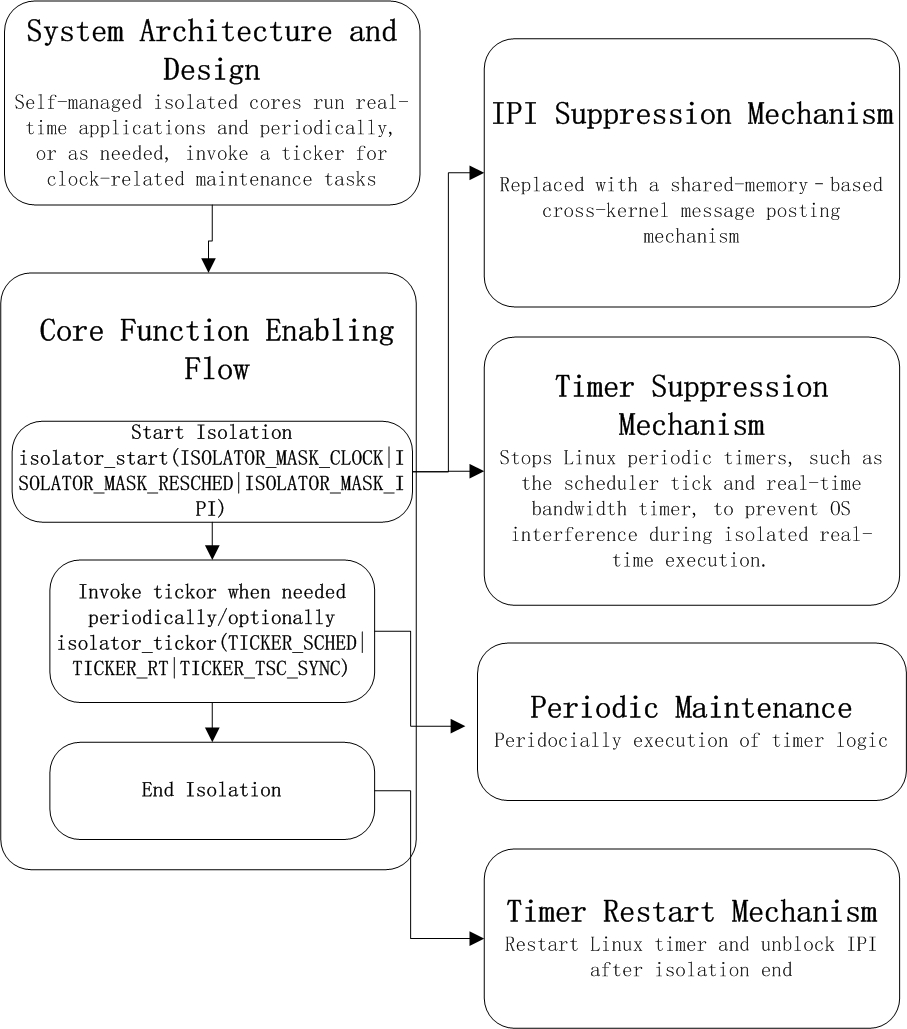
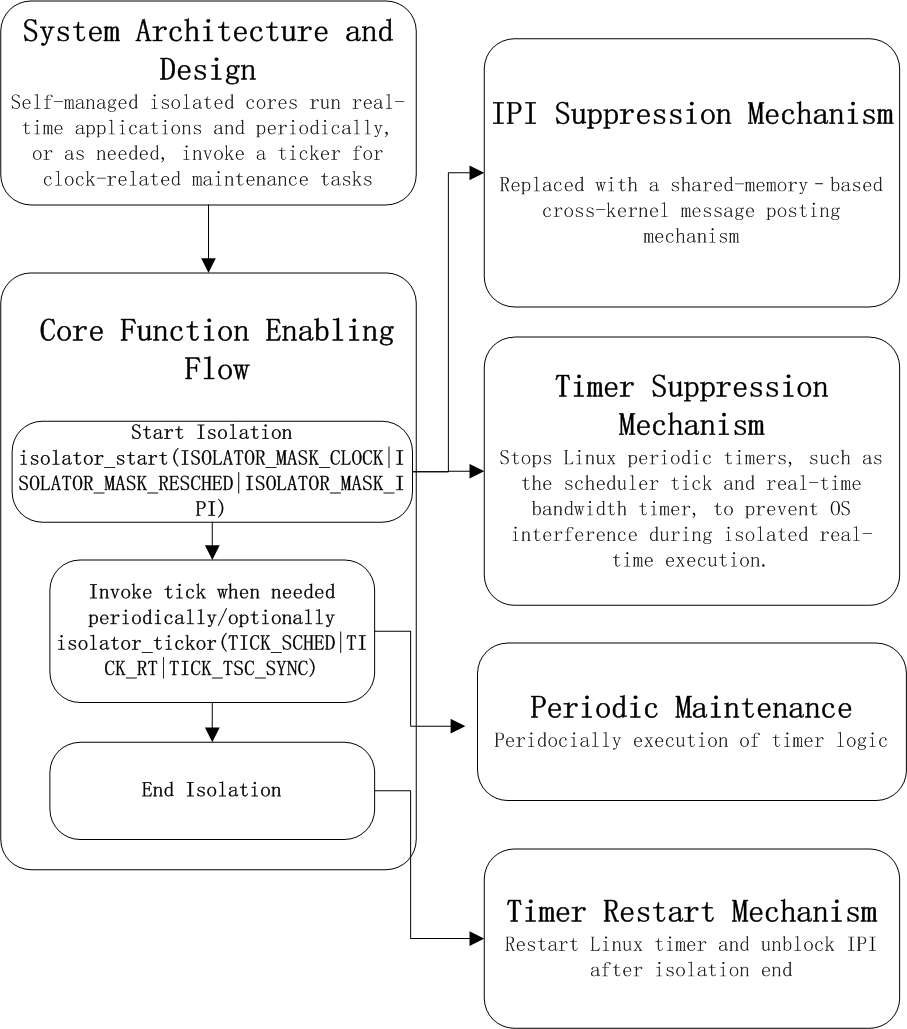
modify page 2

diff --git a/main.tex b/main.tex
@@ -132,10 +132,11 @@ designed to achieve deterministic sub-microsecond response times.
 Our mechanism introduces two key innovations:
 
 \begin{itemize}
-    \item \textbf{Centralized Timer Handling:} Tick-related timer interrupt processing is completely disabled on selected cores. 
-    All tick-related activities previously executed on the isolated core are selectively invoked via a dedicated API,
-    which periodically executes the timer functionalities required for global correctness. 
-    This ensures that isolated cores run without local timer interruptions.
+\item \textbf{Centralized Timer Handling:} Centralized Timer Handling. We centralize tick work that previously executed on the isolated core
+  and expose it through a dedicated polling API. This API is not automatic; the real-time user code must call it periodically
+  (or at application-chosen safe points). If the tick work is completely disabled—so that functions such as \texttt{account\_process\_tick} are
+  never invoked—these routines simply do not execute. While this does not compromise system stability, it suppresses time accounting and related statistics.
+  Users who require these updates can invoke the API on demand to run the deferred tick work.
     
     \item \textbf{Shared-Memory IPI Management:} Non-essential inter-processor interrupts (IPIs) to isolated cores 
     are suppressed. Coordination that would normally trigger IPIs is instead implemented via shared memory, 
@@ -157,7 +158,7 @@ of high-precision tasks free from interference by timer events or other system o
 \section{Related Work}\label{BG}
 \subsection{Timer Interrupt Control in the Linux Kernel}
 
-The concept of timer tickers in operating systems predates the development of the Linux kernel \cite{Corbet}. 
+The concept of timer ticks in operating systems predates the development of the Linux kernel \cite{Corbet}. 
 In Linux, periodic timer interrupts, commonly referred to as \emph{ticks}, are scheduled on each CPU core 
 to support timekeeping, process accounting, and scheduler activation. These interrupts typically occur at 
 frequencies between 250 Hz and 1 kHz and may preempt running tasks to perform kernel maintenance.  
@@ -228,9 +229,9 @@ The system architecture is designed to provide a robust, low-latency environment
 The design, illustrated in Figure~\ref{fig:isolator_flow}, is built around three core mechanisms:
 
 \begin{enumerate}
-    \item \textbf{Isolation Enabling:} The process begins by invoking \texttt{isolator\_start()} with a specified mask (e.g., \texttt{ISOLATOR\_MASK\_CLOCK}, \texttt{ISOLATOR\_MASK\_RESCHED}, \texttt{ISOLATOR\_MASK\_IPI}). This function initiates the isolation state on a core, effectively severing its interaction with standard OS interrupt mechanisms. Crucially, this involves suppressing Inter-Processor Interrupts (IPIs) by replacing them with a deterministic, shared-memory-based message-passing system for cross-kernel communication. It also halts Linux's periodic timers, such as the scheduler tick and real-time bandwidth timer.
+    \item \textbf{Isolation Enabling:} The process begins by invoking \texttt{isolator\_start} with a specified mask (e.g., \texttt{ISOLATOR\_MASK\_CLOCK}, \texttt{ISOLATOR\_MASK\_RESCHED}, \texttt{ISOLATOR\_MASK\_IPI}). This function initiates the isolation state on a core, effectively severing its interaction with standard OS interrupt mechanisms. Crucially, this involves suppressing Inter-Processor Interrupts (IPIs) by replacing them with a deterministic, shared-memory-based message-passing system for cross-kernel communication. It also halts Linux's periodic timers, such as the scheduler tick and real-time bandwidth timer.
 
-    \item \textbf{Periodic Maintenance via a Ticker:} While isolated, the core executes its real-time workload without interruption. However, to maintain system health and coherence, certain clock-related functions must still be performed periodically or on-demand. This is handled by the \texttt{isolator\_ticker()} function, which is invoked by the application itself. This function acts as a managed tick, allowing the isolated core to voluntarily execute maintenance tasks---such as scheduling decisions (\texttt{TICKER\_SCHED}), real-time task management (\texttt{TICKER\_RT}), and time synchronization (\texttt{TICKER\_TSC\_SYNC})---at a time of its choosing, thus preserving determinism.
+    \item \textbf{Periodic Maintenance via a Tick:} While isolated, the core executes its real-time workload without interruption. However, to maintain system health and coherence, certain clock-related functions must still be performed periodically or on-demand. This is handled by the \texttt{isolator\_tick} function, which is invoked by the application itself. This function acts as a managed tick, allowing the isolated core to voluntarily execute maintenance tasks---such as scheduling decisions (\texttt{TICK\_SCHED}), real-time task management (\texttt{TICK\_RT}), and time synchronization (\texttt{TICK\_TSC\_SYNC})---at a time of its choosing, thus preserving determinism.
 
     \item \textbf{Isolation Teardown:} Upon completion of the real-time task, the isolation state is ended. This final stage gracefully reintegrates the core back into the broader OS environment. The mechanism restarts the standard Linux periodic timers and re-enables the full IPI handling, ensuring the core returns to normal operation without any residual state from the isolation period.
 \end{enumerate}
@@ -251,7 +252,7 @@ In summary, the design replaces the traditional preemptive, interrupt-driven OS 
 The kernel was modified to explicitly recognize the isolation state of a core.
 When a core is set to isolation mode, its local tick logic, normally executed in
 \texttt{update\_process\_times} and \texttt{scheduler\_tick},
-is completely bypassed unless explicitly triggered through the \texttt{isolator\_ticker} function.
+is completely bypassed unless explicitly triggered through the \texttt{isolator\_tick} function.
 In addition, all asynchronous inter-processor interrupts (IPIs) that might interfere with the
 isolated core are suppressed. The key mechanisms implemented for timer bypass and interrupt suppression are described below.
 
@@ -268,7 +269,7 @@ the unpredictability of standard IPIs. Specific handling includes:
 \begin{itemize}
     \item \textbf{RCU (Read-Copy Update):} Upon entering isolation, the RCU subsystem is notified that the core is isolated and must be excluded from grace period calculations. 
     \item \textbf{TLB Shootdowns:} IPIs requesting Translation Lookaside Buffer flushes are suppressed and queued in shared memory.
-      The isolated core processes these flush requests the next time it invokes \texttt{isolator\_ticker}.
+      The isolated core processes these flush requests the next time it invokes \texttt{isolator\_tick}.
     \item \textbf{CPU Frequency Scaling:} IPIs induced by CPU frequency changes are disabled to avoid unwanted interruptions.
 \end{itemize}
 
@@ -276,7 +277,7 @@ the unpredictability of standard IPIs. Specific handling includes:
 Even after stopping periodic timers, the isolated core maintains a consistent notion of system time through \texttt{isolator\_get\_monotonic\_time}, which provides a linearized timestamp in microseconds. The \texttt{isolator\_poll\_until} function allows predictable wake-ups for polling operations without relying on standard kernel timers.
 
 \paragraph{Periodic Maintenance}  
-Deferred timer tasks and queued IPI processing are executed only when the isolated core voluntarily calls \texttt{isolator\_ticker}. This ensures deterministic behavior while still allowing the core to perform necessary maintenance tasks at controlled intervals.
+Deferred timer tasks and queued IPI processing are executed only when the isolated core voluntarily calls \texttt{isolator\_tick}. This ensures deterministic behavior while still allowing the core to perform necessary maintenance tasks at controlled intervals.
 
 \paragraph{Restoration Mechanism}  
 When isolation ends, previously canceled Linux timers and real-time bandwidth timers are restarted, and normal IPI handling is restored. The core then returns to standard operation, with all periodic activities and inter-core notifications resumed.
@@ -316,7 +317,7 @@ DEFINE_PER_CPU(atomic_t,
 \end{lstlisting}
 Each entry in this array acts as a flag indicating whether the corresponding CPU is currently under
 isolation. This flag is incremented by user-space applications via a custom system call or API
-(isolator\_start()) and is read by kernel components to selectively disable or defer their operations.
+(isolator\_start) and is read by kernel components to selectively disable or defer their operations.
 
 
 \subsection{RCU Grace Period Handling}
@@ -383,22 +384,22 @@ source of nondeterministic interruptions.
 
 To address this, we introduced a per-CPU flag (\texttt{ucas\_counter}) that 
 controls whether tick-related hrtimers should be restarted or suppressed. When 
-this counter is non-zero, functions such as \texttt{tick\_nohz\_restart()}, 
-\texttt{tick\_nohz\_idle\_restart\_tick()}, \texttt{tick\_nohz\_handler()}, 
-and \texttt{tick\_sched\_timer()} are modified to immediately return without 
+this counter is non-zero, functions such as \texttt{tick\_nohz\_restart}, 
+\texttt{tick\_nohz\_idle\_restart\_tick}, \texttt{tick\_nohz\_handler}, 
+and \texttt{tick\_sched\_timer} are modified to immediately return without 
 restarting the periodic scheduler timer. This effectively disables the 
 recurring tick on isolated CPUs, preventing spurious wakeups and involuntary 
 kernel execution.
 
 In order to preserve correctness, we provide helper routines that allow the 
 isolator subsystem to explicitly handle deferred tick events when needed. For 
-example, the function \texttt{ucas\_handle\_tick\_sched\_timer()} invokes 
-\texttt{tick\_sched\_do\_timer()} and \texttt{update\_process\_times()} 
+example, the function \texttt{ucas\_handle\_tick\_sched\_timer} invokes 
+\texttt{tick\_sched\_do\_timer} and \texttt{update\_process\_times} 
 manually, ensuring that accounting and timekeeping can still progress under 
 controlled conditions.
 
-We also provide utility functions such as ucas\_stop\_sched\_timer() to stop
-the tick-related hrtimers immediately Figure~\ref{fig:stopticker}.
+We also provide utility functions such as ucas\_stop\_sched\_timer to stop
+the tick-related hrtimers immediately Figure~\ref{fig:stoptick}.
 \begin{figure}[h]
 \centering
 \begin{tikzpicture}[node distance=1.5cm, auto]
@@ -408,7 +409,7 @@ the tick-related hrtimers immediately Figure~\ref{fig:stopticker}.
   \tikzstyle{arrow} = [->, thick]
 
   % Nodes
-  \node[block] (start) {\texttt{ucas\_stop\_sched\_timer()}};
+  \node[block] (start) {\texttt{ucas\_stop\_sched\_timer}};
   \node[block, below of=start] (get) {Obtain current CPU’s \\ scheduler timer};
   \node[block, below of=get] (cancel) {Cancel the timer};
   \node[block, below of=cancel] (end) {Finish};
@@ -419,7 +420,7 @@ the tick-related hrtimers immediately Figure~\ref{fig:stopticker}.
   \draw[arrow] (cancel) -- (end);
 \end{tikzpicture}
 \caption{Process of stopping the per-CPU scheduler timer}
-\label{fig:stopticker}
+\label{fig:stoptick}
 \end{figure}
 
 This design guarantees that isolated CPUs are free from involuntary tick 
@@ -439,10 +440,10 @@ workloads running on isolated CPUs.
 
 To eliminate this source of interference, 
 We provide utility functions such as 
-\texttt{ucas\_purge\_this\_cpu\_rtb()} to explicitly cancel real-time bandwidth timers when 
+\texttt{ucas\_purge\_this\_cpu\_rtb} to explicitly cancel real-time bandwidth timers when 
 isolation is active. We augmented the \texttt{rt\_bandwidth} 
 structure with a list node and a \texttt{deleted} flag. Each CPU maintains a 
-per-CPU list of active bandwidth structures, \texttt{ucas\_purge\_this\_cpu\_rtb()} cancel
+per-CPU list of active bandwidth structures, \texttt{ucas\_purge\_this\_cpu\_rtb} cancel
 the timers on above per-CPU list one by one Figure~\ref{fig:purge_flowchart}.
 
 \begin{figure}[h]
